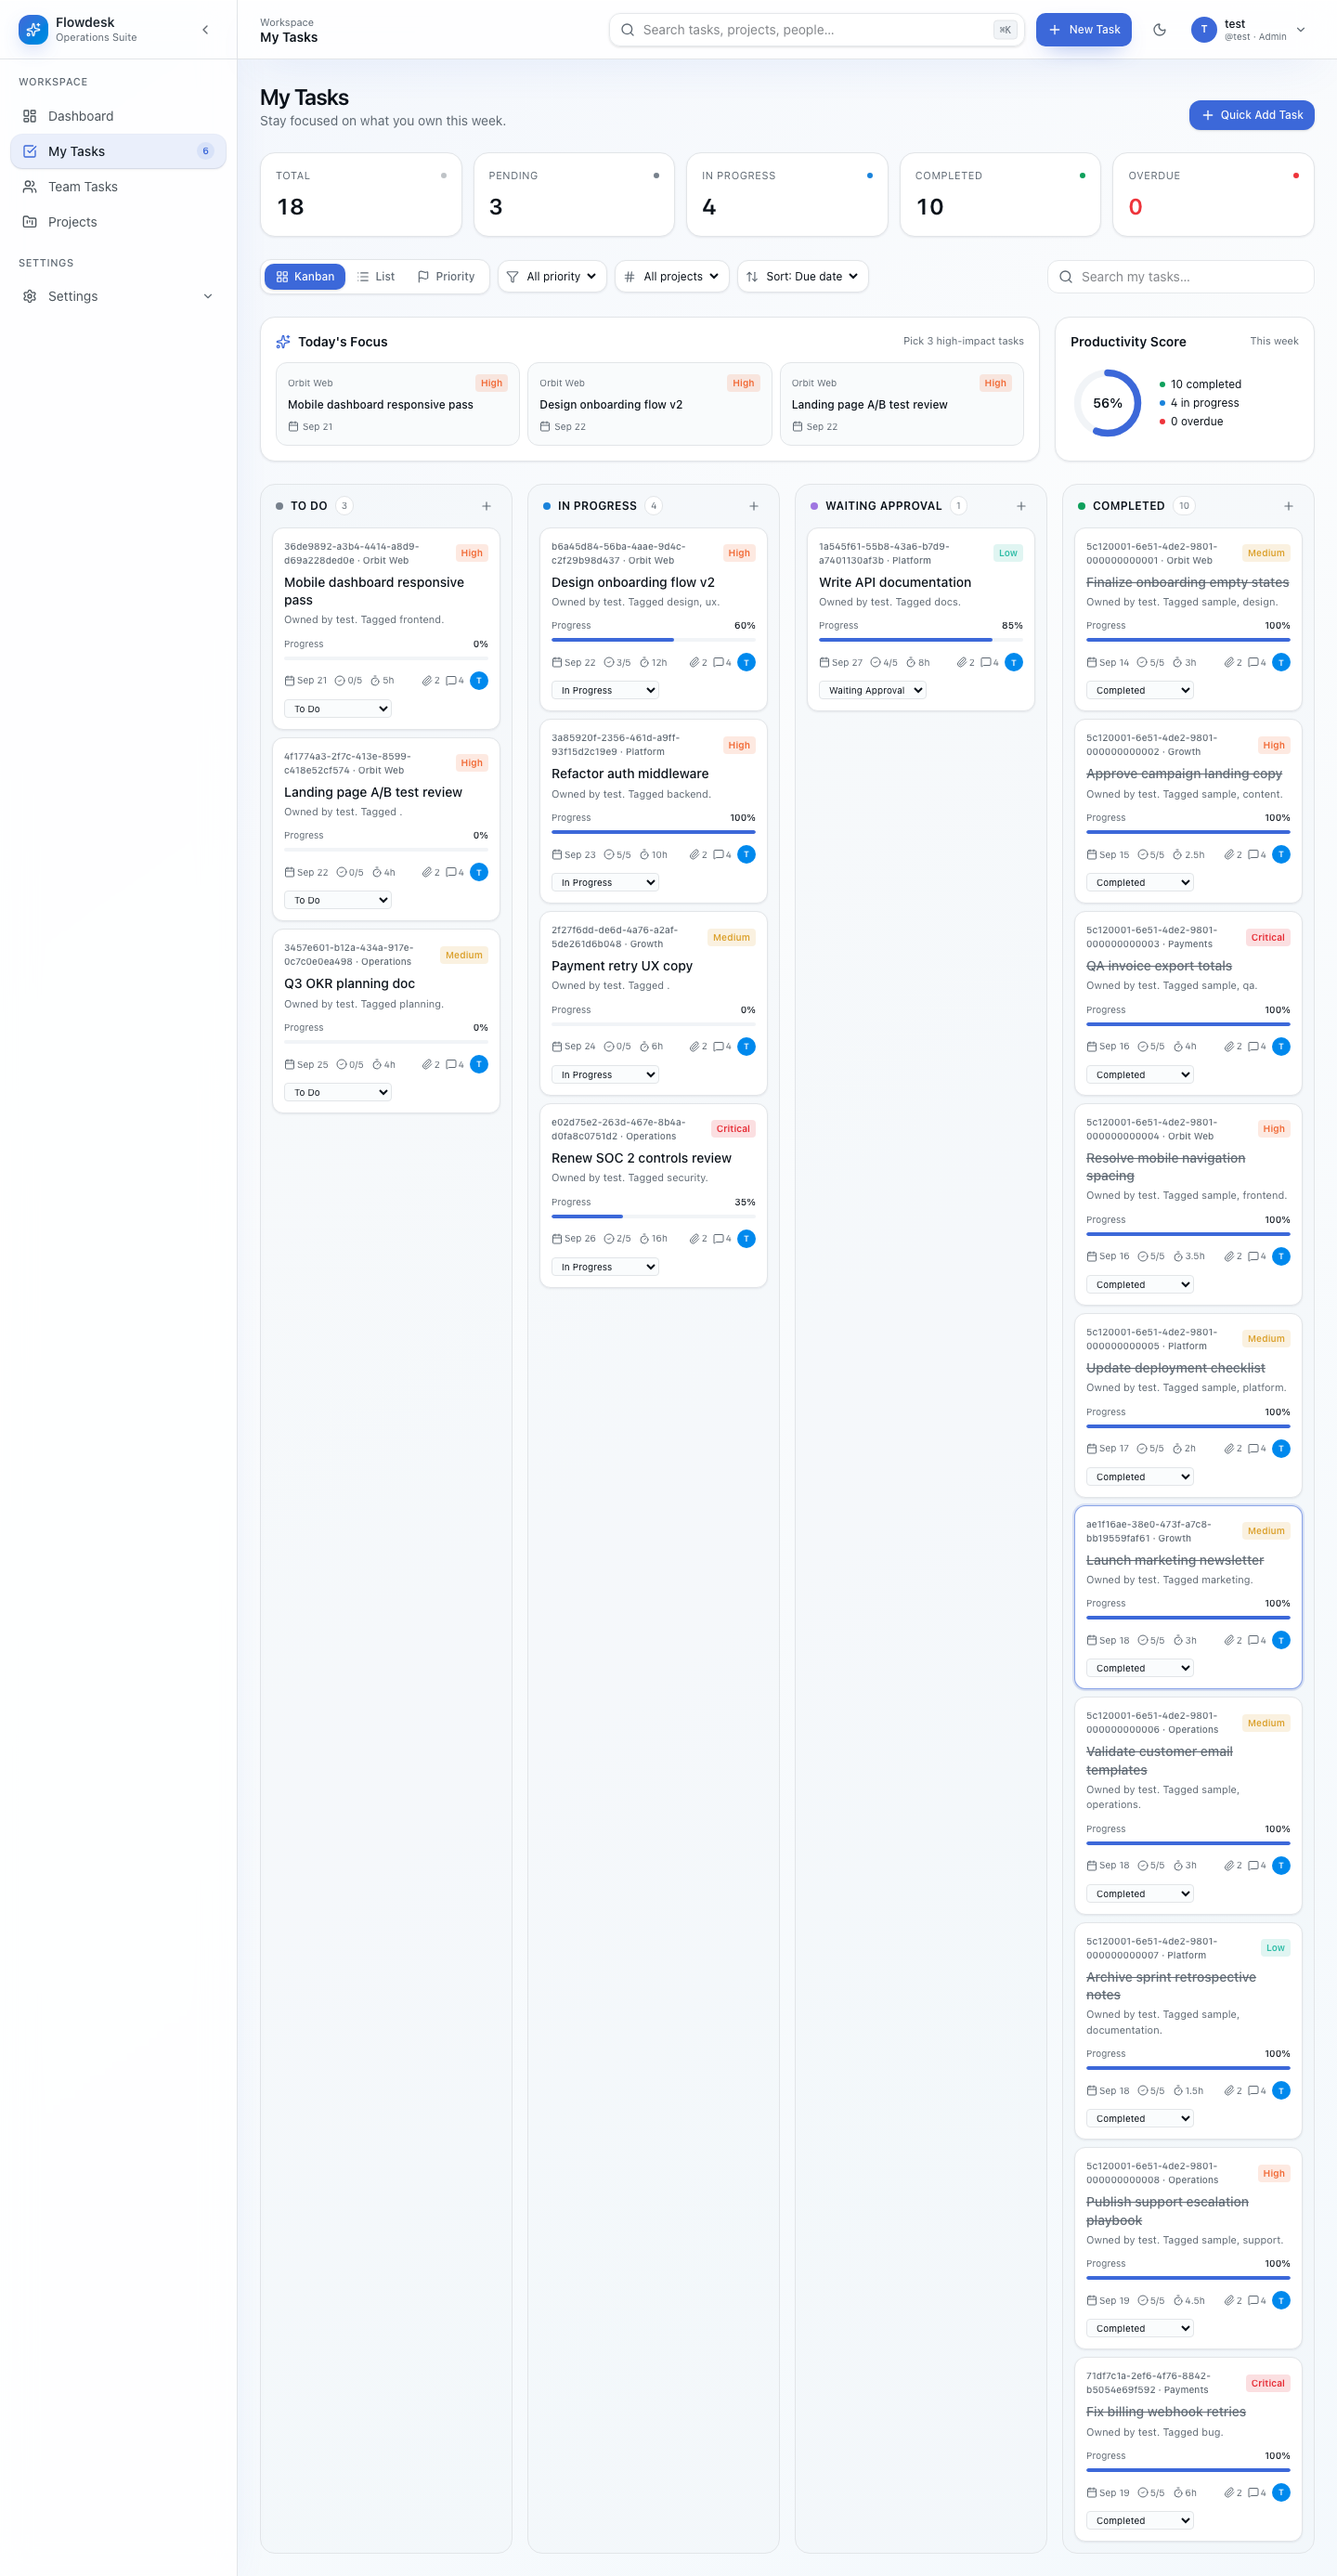
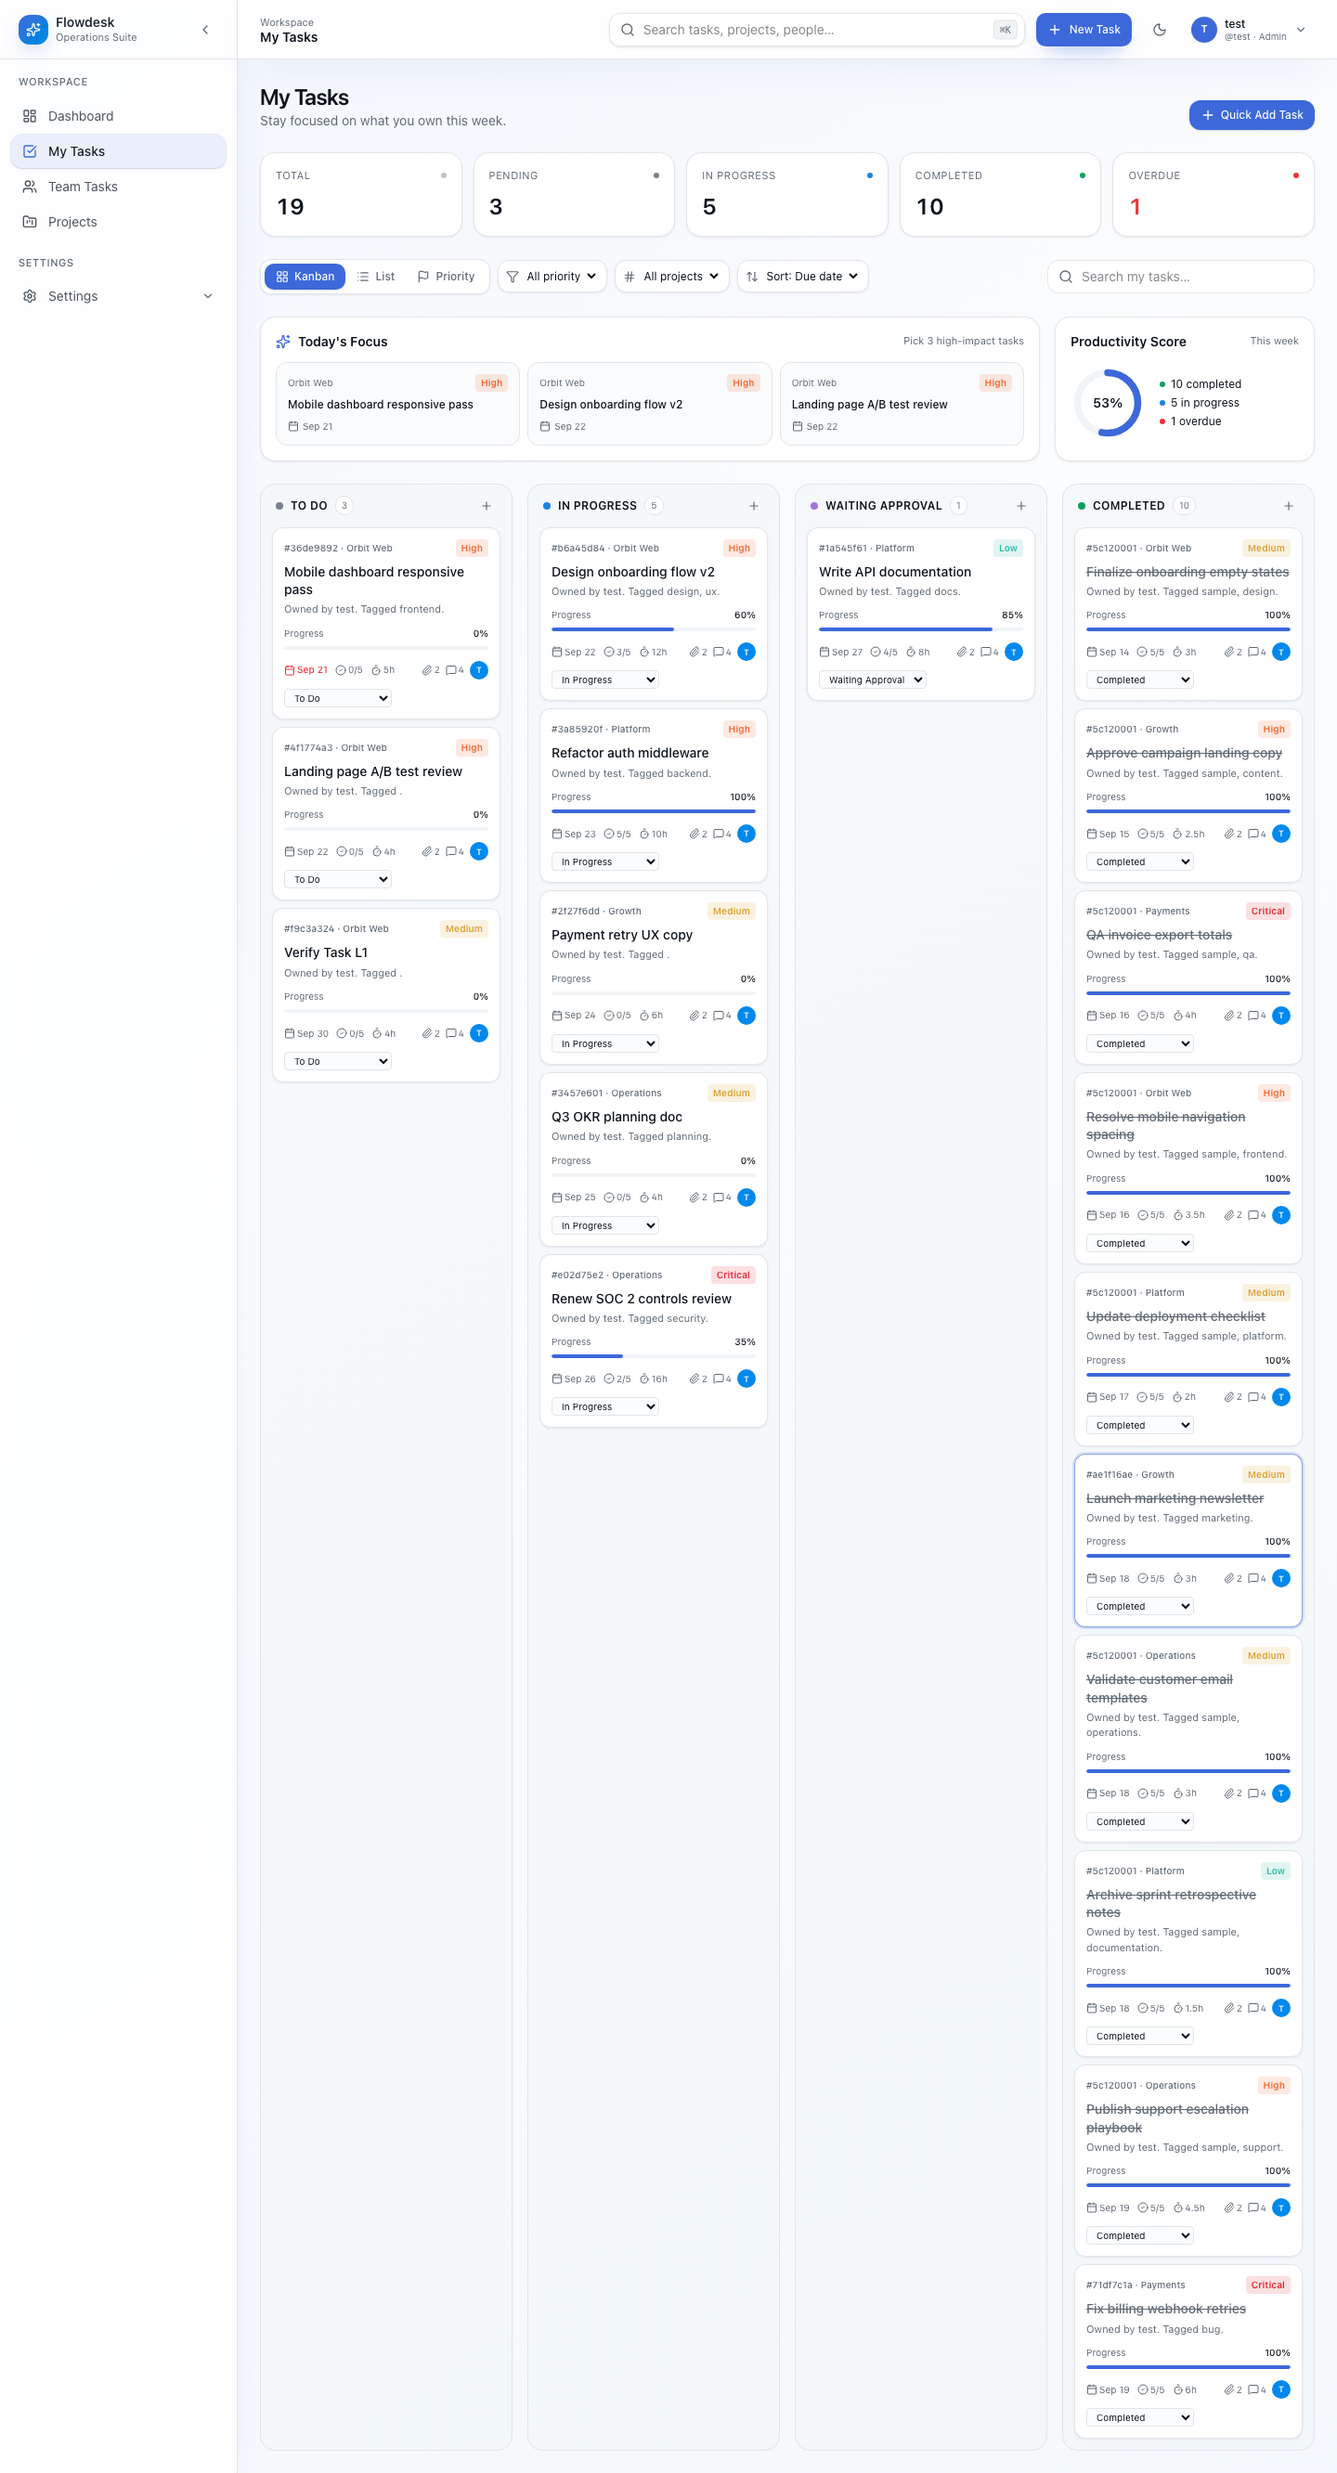
fix: Phase D quality pass — loading/error states, crash guard, validation, a11y
Scoped to docs/05 Phase 5 categories only. No redesign of anything that works.

- Task provider no longer seeds itself with the 12 sample tasks from mock-data.
  A slow or failed query used to render fabricated tasks a user could not tell
  from real work. It now starts empty, reports loading|ready|error, and logs the
  failure instead of swallowing it (docs/08 D6).
- New WorkspaceState component gives My Tasks and Team Tasks a real loading
  state and an actionable error state with retry. Neither page had any before —
  1,771 lines with no loading or error handling (docs/08 D7).
- Guard the detail panel against an undefined task. items[0] is undefined when
  the list is empty, and the panel rendered it unguarded, so a brand-new
  organization with no tasks could white-screen the list view (docs/08 D5).
- Team Tasks completion rate no longer renders NaN% on an empty list (D12).
- Task cards and the detail header showed the full 36-character uuid. Show a
  short #xxxxxxxx reference instead (D3).
- Remove the hardcoded 'badge: 6' on the My Tasks sidebar item; it never matched
  anything real (D9).

Verified: tsc --noEmit clean; production build succeeds; all nine screens walked
in a real browser against .output/server/index.mjs with zero console errors; no
full uuids remain in the rendered output.

diff --git a/src/components/workspace/MyTasksPage.tsx b/src/components/workspace/MyTasksPage.tsx
@@ -22,7 +22,8 @@ import {
   Sparkles,
 } from "lucide-react";
 import { projects, type Task, type Status, type Priority } from "@/lib/mock-data";
-import { useWorkspace } from "@/lib/workspace-data";
+import { useWorkspace, type WorkspaceTask } from "@/lib/workspace-data";
+import { WorkspaceState } from "@/components/workspace/WorkspaceState";
 import { cn } from "@/lib/utils";
 import { format, formatDistanceToNow } from "date-fns";
 import { Dialog, DialogContent } from "@/components/ui/dialog";
@@ -47,6 +48,11 @@ const priorityRank: Record<Priority, number> = { critical: 0, high: 1, medium: 2
 function bucket(t: Task): Status | "waiting" {
   return t.status === "review" ? "waiting" : t.status;
 }
+
+// A work_tasks id is a 36-character uuid. Showing it whole made every card and every
+// drawer header start with an unreadable identifier. Show a short, stable reference
+// instead — enough to quote in a message, without the noise.
+const taskRef = (id: string) => (id.includes("-") && id.length >= 8 ? `#${id.slice(0, 8)}` : `#${id}`);
 
 type View = "kanban" | "list" | "priority";
 
@@ -88,7 +94,7 @@ const comments = [
 
 export function MyTasksPage({ onNewTask, dashboardFilter }: { onNewTask: () => void; dashboardFilter?: string }) {
   // Treat all tasks as "mine" for the demo
-  const { tasks: items, updateTask } = useWorkspace();
+  const { tasks: items, updateTask, status: loadStatus } = useWorkspace();
   const [view, setView] = useState<View>("kanban");
   const [query, setQuery] = useState("");
   const [priorityFilter, setPriorityFilter] = useState<Priority | "all">("all");
@@ -137,7 +143,9 @@ export function MyTasksPage({ onNewTask, dashboardFilter }: { onNewTask: () => v
 
   const productivity = Math.round((counts.completed / Math.max(counts.total, 1)) * 100);
   const focus = filtered.filter((t) => t.status !== "done").slice(0, 3);
-  const selected = items.find((t) => t.id === selectedId) ?? items[0];
+  // `items` is empty while loading, on a query failure, and for a brand-new
+  // organization — so this can legitimately be undefined. Callers must handle it.
+  const selected: WorkspaceTask | undefined = items.find((t) => t.id === selectedId) ?? items[0];
 
   useEffect(() => {
     if (dashboardFilter?.startsWith("task:")) {
@@ -163,6 +171,7 @@ export function MyTasksPage({ onNewTask, dashboardFilter }: { onNewTask: () => v
 
   return (
     <div className="space-y-6">
+      <WorkspaceState status={loadStatus} hasTasks={items.length > 0} />
       {/* Top heading */}
       <div className="flex flex-wrap items-end justify-between gap-3">
         <div>
@@ -551,7 +560,7 @@ export function MyTasksPage({ onNewTask, dashboardFilter }: { onNewTask: () => v
         </div>
 
         {/* Right detail panel — docked beside List/Priority, centered modal over Kanban */}
-        {view !== "kanban" && (
+        {view !== "kanban" && selected && (
           <TaskDetailPanel
             task={selected}
             onClose={() => {
@@ -640,7 +649,7 @@ function MyTaskCard({
     >
       <div className="flex items-center justify-between gap-2">
         <span className="text-[10px] font-medium text-muted-foreground">
-          {task.id} · {task.project}
+          {taskRef(task.id)} · {task.project}
         </span>
         <span
           className={cn(
@@ -776,7 +785,7 @@ function TaskDetailPanel({
       <div className={cn("flex items-center justify-between px-4 py-3 border-b border-border", bare && "pr-16")}>
         <div className="min-w-0">
           <div className="text-[10px] text-muted-foreground">
-            {task.id} · {task.project}
+            {taskRef(task.id)} · {task.project}
           </div>
           <h3 className="text-sm font-semibold truncate">{task.title}</h3>
         </div>

diff --git a/src/lib/workspace-data.tsx b/src/lib/workspace-data.tsx
@@ -28,8 +28,16 @@ export type NewWorkspaceTask = Omit<WorkspaceTask, "id" | "progress" | "comments
   blockedReason?: string;
 };
 
+export type WorkspaceStatus = "loading" | "ready" | "error";
+
 type WorkspaceContextValue = {
   tasks: WorkspaceTask[];
+  /**
+   * Load state of the work_tasks query. Consumers must distinguish "still loading"
+   * from "loaded and genuinely empty" — otherwise a slow network renders as an empty
+   * board, and a failed query renders as an empty board too.
+   */
+  status: WorkspaceStatus;
   addTask: (task: NewWorkspaceTask) => WorkspaceTask;
   updateTask: (id: string, updates: Partial<WorkspaceTask>) => void;
 };
@@ -75,7 +83,11 @@ const initialTasks: WorkspaceTask[] = seedTasks.map((task, index) => ({
 const WorkspaceContext = createContext<WorkspaceContextValue | null>(null);
 
 export function WorkspaceProvider({ children }: { children: ReactNode }) {
-  const [tasks, setTasks] = useState<WorkspaceTask[]>(initialTasks);
+  // Seeded empty, NOT with the sample tasks in mock-data.ts. Seeding fabricated tasks
+  // here meant a failed or slow query rendered twelve convincing fake tasks that a user
+  // could not tell from their real work. An empty list plus an explicit status is honest.
+  const [tasks, setTasks] = useState<WorkspaceTask[]>([]);
+  const [status, setStatus] = useState<WorkspaceStatus>("loading");
 
   useEffect(() => {
     let active = true;
@@ -84,7 +96,12 @@ export function WorkspaceProvider({ children }: { children: ReactNode }) {
         supabase.from("work_tasks").select("*, work_projects(name), task_recurrences(*)").is("archived_at", null),
         supabase.auth.getUser(),
       ]);
-      if (!active || error || !rows) return;
+      if (!active) return;
+      if (error || !rows) {
+        console.error("[flowdesk] failed to load work_tasks", error);
+        setStatus("error");
+        return;
+      }
       const currentName = profile.user?.user_metadata?.full_name || profile.user?.email?.split("@")[0] || "Account";
       const currentPerson = allPeople.find((person) => person.name === currentName) ?? { name: currentName, initials: currentName.split(" ").map((part: string) => part[0]).join("").slice(0, 2).toUpperCase(), color: "oklch(0.62 0.18 250)" };
       setTasks(rows.filter((row) => row.status !== "cancelled").map((row) => {
@@ -128,6 +145,7 @@ export function WorkspaceProvider({ children }: { children: ReactNode }) {
         recurrence: storedRule,
         recurrenceSummary: storedRule ? recurrenceSummary(storedRule) : undefined,
       }); }));
+      setStatus("ready");
     };
     void load();
     return () => { active = false; };
@@ -136,6 +154,7 @@ export function WorkspaceProvider({ children }: { children: ReactNode }) {
   const value = useMemo<WorkspaceContextValue>(
     () => ({
       tasks,
+      status,
       addTask: (input) => {
         const number =
           Math.max(100, ...tasks.map((task) => Number(task.id.replace(/\D/g, "")) || 0)) + 1;
@@ -185,7 +204,7 @@ export function WorkspaceProvider({ children }: { children: ReactNode }) {
         }
       },
     }),
-    [tasks],
+    [tasks, status],
   );
 
   return <WorkspaceContext.Provider value={value}>{children}</WorkspaceContext.Provider>;

diff --git a/src/components/workspace/WorkspaceState.tsx b/src/components/workspace/WorkspaceState.tsx
@@ -1,0 +1,51 @@
+import { AlertTriangle, Loader2 } from "lucide-react";
+import type { WorkspaceStatus } from "@/lib/workspace-data";
+
+/**
+ * Loading / error state for the task views.
+ *
+ * The task provider used to seed itself with sample tasks, so a slow or failed query
+ * was indistinguishable from real work. It now starts empty and reports its status,
+ * and this renders the two states that are not "here are your tasks".
+ *
+ * Returns null once the data is ready, or while tasks are already on screen — a
+ * background refetch must not blank out a working board.
+ */
+export function WorkspaceState({ status, hasTasks }: { status: WorkspaceStatus; hasTasks: boolean }) {
+  if (status === "ready" || hasTasks) return null;
+
+  if (status === "loading") {
+    return (
+      <div
+        className="flex flex-col items-center justify-center gap-3 rounded-xl border border-border bg-card/60 py-16 text-center"
+        role="status"
+        aria-live="polite"
+      >
+        <Loader2 className="h-5 w-5 animate-spin text-muted-foreground" aria-hidden="true" />
+        <p className="text-sm text-muted-foreground">Loading your tasks…</p>
+      </div>
+    );
+  }
+
+  return (
+    <div
+      className="flex flex-col items-center justify-center gap-3 rounded-xl border border-destructive/30 bg-destructive/5 py-16 text-center"
+      role="alert"
+    >
+      <AlertTriangle className="h-5 w-5 text-destructive" aria-hidden="true" />
+      <div>
+        <p className="text-sm font-medium text-foreground">We couldn&rsquo;t load your tasks.</p>
+        <p className="mt-1 text-xs text-muted-foreground">
+          Check your connection and refresh the page. Nothing has been lost.
+        </p>
+      </div>
+      <button
+        type="button"
+        onClick={() => window.location.reload()}
+        className="mt-1 rounded-md border border-border px-3 py-1.5 text-xs font-medium hover:bg-accent focus-visible:outline-none focus-visible:ring-1 focus-visible:ring-ring"
+      >
+        Retry
+      </button>
+    </div>
+  );
+}

diff --git a/src/components/workspace/TeamTasksPage.tsx b/src/components/workspace/TeamTasksPage.tsx
@@ -1,6 +1,7 @@
 import { Fragment, useEffect, useMemo, useState } from "react";
 import { allPeople, projects, type Task, type Priority } from "@/lib/mock-data";
 import { useWorkspace, type WorkspaceTask } from "@/lib/workspace-data";
+import { WorkspaceState } from "@/components/workspace/WorkspaceState";
 import {
   Plus,
   LayoutGrid,
@@ -61,7 +62,7 @@ const workloadData = allPeople.map((p, i) => {
 
 export function TeamTasksPage({ onNewTask, dashboardFilter }: { onNewTask: () => void; dashboardFilter?: string }) {
   const [view, setView] = useState<"kanban" | "table" | "timeline">("kanban");
-  const { tasks: workspaceTasks, updateTask } = useWorkspace();
+  const { tasks: workspaceTasks, updateTask, status: loadStatus } = useWorkspace();
   const items = useMemo<TeamTask[]>(
     () =>
       workspaceTasks.map((task, index) => ({
@@ -113,7 +114,8 @@ export function TeamTasksPage({ onNewTask, dashboardFilter }: { onNewTask: () =>
     const productivity = Math.round(
       workloadData.reduce((s, p) => s + p.productivity, 0) / workloadData.length,
     );
-    const completionRate = Math.round((completedToday / total) * 100);
+    // total is items.length, which is 0 while loading and for an empty organization.
+    const completionRate = Math.round((completedToday / Math.max(total, 1)) * 100);
     return { total, active, delayed, completedToday, reviews, productivity, completionRate };
   }, [items]);
 
@@ -125,6 +127,7 @@ export function TeamTasksPage({ onNewTask, dashboardFilter }: { onNewTask: () =>
 
   return (
     <div className="space-y-6">
+      <WorkspaceState status={loadStatus} hasTasks={workspaceTasks.length > 0} />
       {/* Header */}
       <div className="flex flex-wrap items-end justify-between gap-4">
         <div>

diff --git a/src/components/workspace/Sidebar.tsx b/src/components/workspace/Sidebar.tsx
@@ -8,7 +8,8 @@ import { cn } from "@/lib/utils";
 
 const mainItems = [
   { id: "dashboard", label: "Dashboard", icon: LayoutDashboard },
-  { id: "my-tasks", label: "My Tasks", icon: CheckSquare, badge: 6 },
+  // No hardcoded badge: the previous literal `badge: 6` never matched anything real.
+  { id: "my-tasks", label: "My Tasks", icon: CheckSquare },
   { id: "team", label: "Team Tasks", icon: Users },
   { id: "projects", label: "Projects", icon: FolderKanban },
 ];
@@ -116,14 +117,6 @@ export function Sidebar({
                 <Icon className={cn("h-4 w-4 shrink-0", isActive && "text-primary")} />
                 {!collapsed && <span className="text-sm">{item.label}</span>}
               </span>
-              {!collapsed && item.badge && (
-                <span className="rounded-md bg-primary/10 px-1.5 py-0.5 text-[10px] font-semibold text-primary">
-                  {item.badge}
-                </span>
-              )}
-              {collapsed && item.badge && (
-                <span className="absolute right-1 top-1 h-2 w-2 rounded-full bg-primary" />
-              )}
             </button>
           );
         })}
